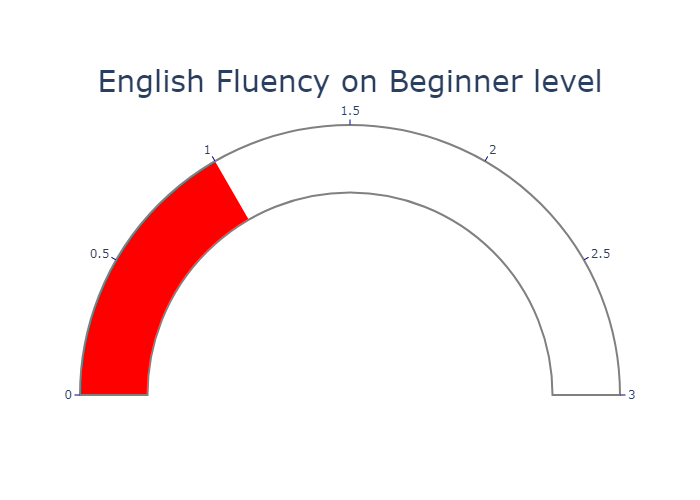
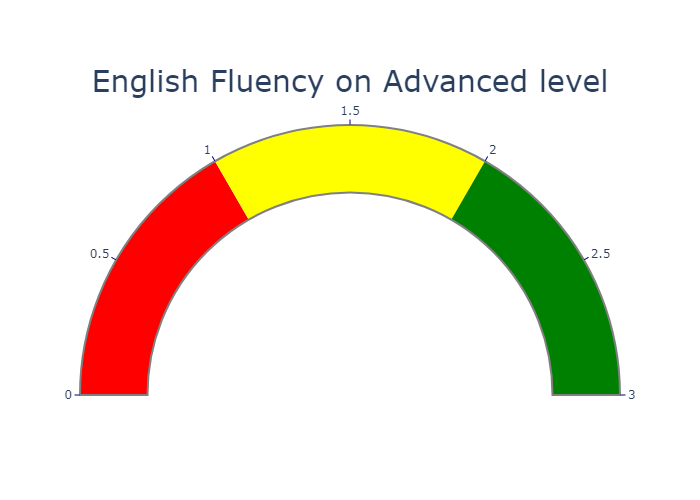
6/3/23

Changed region(s): [[0.3, 0.24, 0.9, 0.81], [0.12, 0.12, 0.87, 0.21]]

diff --git a/speakwise/views.py b/speakwise/views.py
@@ -4,7 +4,7 @@ from django.http import HttpRequest
 from django.views.decorators.csrf import csrf_exempt
 from django.core.files.storage import default_storage
 from django.http import FileResponse
-
+from django.core.files.storage import FileSystemStorage
 
 from rest_framework.decorators import api_view
 
@@ -100,8 +100,9 @@ def data_return(request):
     # audio = MP3("static/speakwise/output.mp3")
     
 
-    n=prediction("static/speakwise/output.mp3")
-    # n=prediction(filepath)
+    # n=prediction("static/speakwise/output.mp3")
+    n=prediction(filepath)
+
     if n==0:
         visualize([{'range': [0, 1], 'color': 'red'}],{'text': "English Fluency on Beginner level", 'font': {'size': 30}})
     elif n==1:
